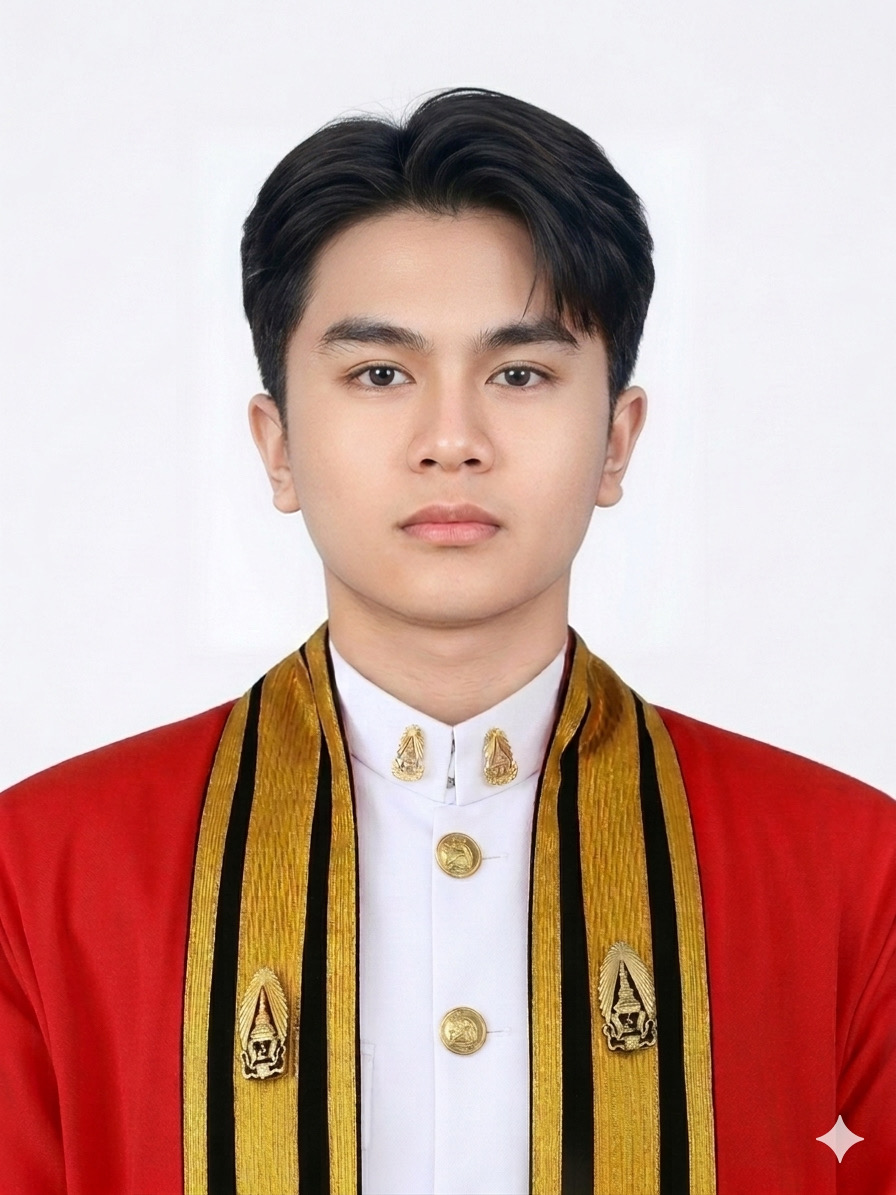
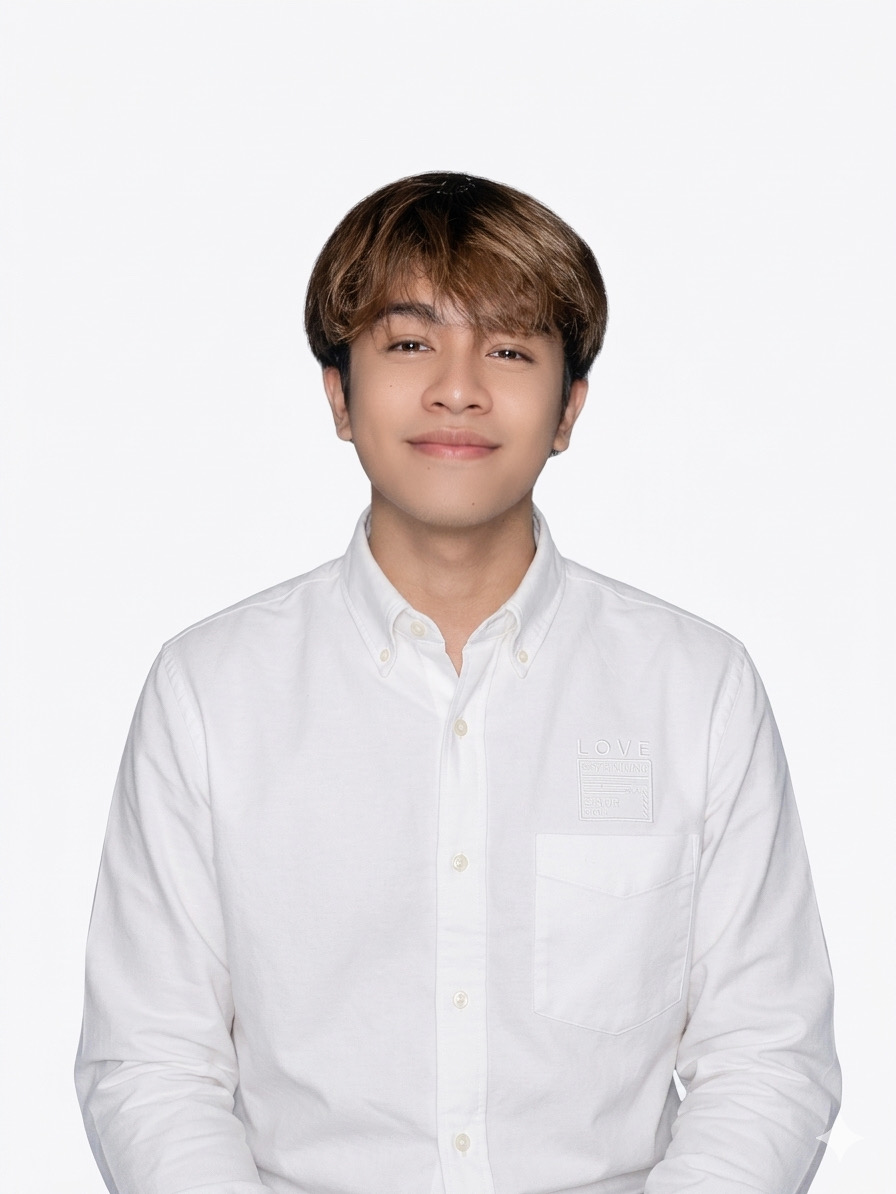
feat:hero changed profile picture on hero section

diff --git a/src/sections/Hero.tsx b/src/sections/Hero.tsx
@@ -71,7 +71,7 @@ export const Hero = () => {
               <img
                 src={profilePic}
                 alt="Profile"
-                className="w-full h-full object-cover"
+                className="w-full h-full object-contain scale-120"
               />
             </div>
           </motion.div>
